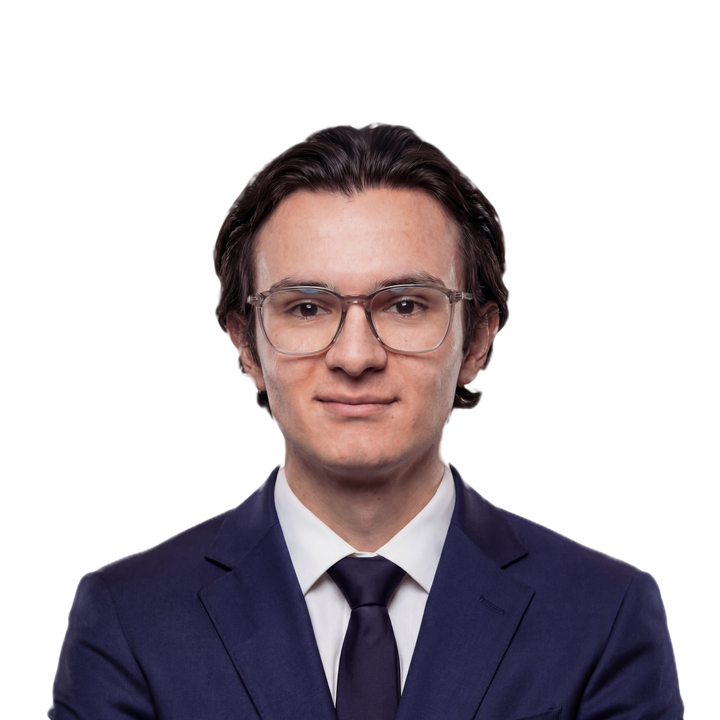
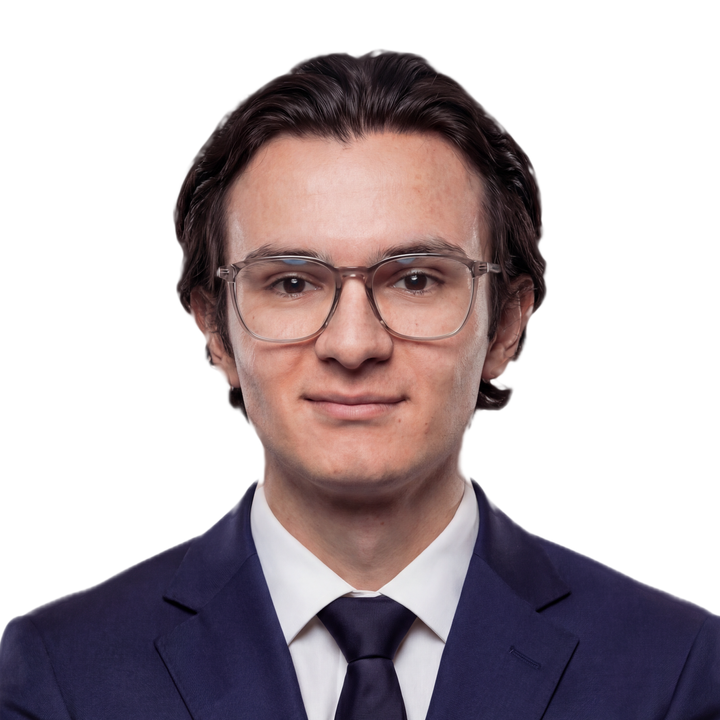
fix: closer head-centered portraits, equal lead circles, single-line bullets, truer red for service ring

diff --git a/index.html b/index.html
@@ -40,7 +40,7 @@
   /* Schimmer: drei Stopps, pro Farbphase überschrieben */
   --s1: var(--purple); --s2: var(--blau); --s3: var(--cyan);
   /* Ringfarben der Teamfolie: bewusst gedämpft */
-  --ring-service: #FF8E86;
+  --ring-service: #F04452;
   --ring-software: #86C8FF;
   --ring-gf: #B9A2F5;
   --font: "Avenir Next LT", "Avenir Next", Avenir, "Nunito Sans", "Segoe UI", sans-serif;
@@ -179,10 +179,10 @@ h1, h2, h3 { margin: 0; font-family: var(--font); }
 .preise p { margin: 0; font-size: 27px; font-weight: 600; color: var(--weiss); }
 
 /* ---------- Folie 9: Team. Ruhig halten, die Ringe tragen die Farbe ---------- */
-.slide.team { flex-direction: row !important; padding: 118px 80px 70px; gap: 0; }
+.slide.team { flex-direction: row !important; padding: 108px 80px 56px; gap: 0; }
 .seite { flex: 1; min-width: 0; display: flex; flex-direction: column; align-items: center; }
-.mitte { width: 400px; flex-shrink: 0; display: flex; flex-direction: column; align-items: center; justify-content: space-between; padding: 0 20px; }
-.seiten-titel { margin: 0 0 26px; font-size: 25px; font-weight: 600; color: var(--w-70); text-align: center; }
+.mitte { padding-top: 56px !important; width: 400px; flex-shrink: 0; display: flex; flex-direction: column; align-items: center; justify-content: space-between; padding: 0 20px; }
+.seiten-titel { margin: 0 0 26px; height: 30px; line-height: 30px; font-size: 25px; font-weight: 600; color: var(--w-70); text-align: center; }
 .person { margin: 0; display: flex; flex-direction: column; align-items: center; text-align: center; }
 .rund {
   --ring: var(--w-25); position: relative; width: 150px; height: 150px; border-radius: 50%;
@@ -197,12 +197,12 @@ h1, h2, h3 { margin: 0; font-family: var(--font); }
 }
 .rund img, .rund .leer { position: absolute; inset: 0; width: 100%; height: 100%; border-radius: 50%; margin: 0; }
 .rund img { object-fit: cover; object-position: center bottom; display: block; }
-.person.gross .rund { width: 182px; height: 182px; border-width: 5px; }
+.person.gross .rund { width: 214px; height: 214px; border-width: 5px; }
 .person.gf .rund { width: 214px; height: 214px; border-width: 5px; }
 .person figcaption { margin-top: 12px; display: flex; flex-direction: column; gap: 2px; }
 .person figcaption b { font-size: 25px; font-weight: 700; color: var(--weiss); }
 .person figcaption span { font-size: 18px; line-height: 1.25; color: var(--w-45); max-width: 176px; min-height: 45px; }
-.person.gross figcaption b { font-size: 30px; }
+.person.gross figcaption b { font-size: 34px; }
 .person.gross figcaption span, .person.gf figcaption span { font-size: 21px; max-width: none; min-height: 0; color: var(--w-70); }
 .person.gf figcaption b { font-size: 34px; }
 .service .rund { --ring: var(--ring-service); }
@@ -214,9 +214,9 @@ h1, h2, h3 { margin: 0; font-family: var(--font); }
 .fremd .rund img { filter: saturate(.55) brightness(.92); }
 .person.fehlt .rund { border-style: dashed; }
 .person.fehlt .leer { display: grid; place-items: center; font-size: 46px; font-weight: 700; color: var(--w-25); }
-.reihe { display: flex; justify-content: center; gap: 26px; margin-top: 20px; }
-.punkte { list-style: none; margin: 22px 0 0; padding: 0; width: 100%; max-width: 640px; }
-.punkte li { position: relative; padding: 6px 0 6px 28px; font-size: 22.5px; line-height: 1.3; color: var(--w-70); border-top: 1px solid var(--hairline); margin: 0; }
+.reihe { display: flex; justify-content: center; gap: 26px; margin-top: 16px; }
+.punkte { list-style: none; margin: 16px 0 0; padding: 0; width: 100%; max-width: 640px; }
+.punkte li { position: relative; padding: 6px 0 6px 28px; font-size: 22.5px; line-height: 1.3; white-space: nowrap; color: var(--w-70); border-top: 1px solid var(--hairline); margin: 0; }
 .punkte li:last-child { border-bottom: 1px solid var(--hairline); }
 .punkte li::before { content: ""; position: absolute; left: 4px; top: 16px; width: 9px; height: 9px; border-radius: 50%; }
 .service .punkte li::before { background: var(--ring-service); }
@@ -380,7 +380,7 @@ body.chrome-aus .chrome-edge, body.chrome-aus .chrome-num { opacity: 0; }
   <div class="rund"><img src="assets/team/jorge.png" alt="Jorge" width="720" height="720"></div>
   <figcaption><b>Jorge</b><span>Data Scientist</span></figcaption>
 </figure></div>
-  <ul class="punkte"><li>Fachkräftesicherung (+2000 Bewerbungen allein in 2025)</li><li>Kundengewinnung (wöchentliche Neukundengespräche)</li><li>Digitale Sichtbarkeit (Tausende Follower für Kunden aufgebaut)</li><li>Zielgruppenanalysen mit Millionen von Datenpunkten</li><li>Schulungen, Workshops und Webinare für Ihr Team</li><li>Websites, Werbekampagnen, Content und vieles mehr</li></ul>
+  <ul class="punkte"><li>Fachkräftesicherung (+2000 Bewerbungen allein in 2025)</li><li>Kundengewinnung (wöchentliche Neukundengespräche)</li><li>Digitale Sichtbarkeit (Tausende Follower aufgebaut)</li><li>Zielgruppenanalysen mit Millionen von Datenpunkten</li><li>Schulungen, Workshops und Webinare für Ihr Team</li><li>Websites, Werbekampagnen, Content und vieles mehr</li></ul>
 </div>
     <div class="mitte">
       <figure class="person gf gross">
@@ -411,7 +411,7 @@ body.chrome-aus .chrome-edge, body.chrome-aus .chrome-num { opacity: 0; }
   <div class="rund"><img src="assets/team/nadira.png" alt="Nadira" width="720" height="720"></div>
   <figcaption><b>Nadira</b><span>AI und Software Engineer</span></figcaption>
 </figure></div>
-  <ul class="punkte"><li>KI aus Deutschland, für Deutschland</li><li>Datenschutzkonforme KI</li><li>Telefon-KI: rund um die Uhr erreichbar für Kunden und Mitarbeiter</li><li>Website Chatbots für Ihre Kunden</li><li>Schnittstellen zu all Ihren Tools</li><li>KI-Workflows in Ihrer Firma implementieren</li></ul>
+  <ul class="punkte"><li>KI aus Deutschland, für Deutschland</li><li>Datenschutzkonforme KI</li><li>Telefon-KI: rund um die Uhr erreichbar für Ihre Kunden</li><li>Website Chatbots für Ihre Kunden</li><li>Schnittstellen zu all Ihren Tools</li><li>KI-Workflows in Ihrer Firma implementieren</li></ul>
 </div>
     <aside class="notes">Links Service mit Eddie, rechts Software mit Dom, in der Mitte Emre. Der Gag in der Mitte kommt zuletzt.</aside>
   </div>

diff --git a/stamm.html b/stamm.html
@@ -40,7 +40,7 @@
   /* Schimmer: drei Stopps, pro Farbphase überschrieben */
   --s1: var(--purple); --s2: var(--blau); --s3: var(--cyan);
   /* Ringfarben der Teamfolie: bewusst gedämpft */
-  --ring-service: #FF8E86;
+  --ring-service: #F04452;
   --ring-software: #86C8FF;
   --ring-gf: #B9A2F5;
   --font: "Avenir Next LT", "Avenir Next", Avenir, "Nunito Sans", "Segoe UI", sans-serif;
@@ -179,10 +179,10 @@ h1, h2, h3 { margin: 0; font-family: var(--font); }
 .preise p { margin: 0; font-size: 27px; font-weight: 600; color: var(--weiss); }
 
 /* ---------- Folie 9: Team. Ruhig halten, die Ringe tragen die Farbe ---------- */
-.slide.team { flex-direction: row !important; padding: 118px 80px 70px; gap: 0; }
+.slide.team { flex-direction: row !important; padding: 108px 80px 56px; gap: 0; }
 .seite { flex: 1; min-width: 0; display: flex; flex-direction: column; align-items: center; }
-.mitte { width: 400px; flex-shrink: 0; display: flex; flex-direction: column; align-items: center; justify-content: space-between; padding: 0 20px; }
-.seiten-titel { margin: 0 0 26px; font-size: 25px; font-weight: 600; color: var(--w-70); text-align: center; }
+.mitte { padding-top: 56px !important; width: 400px; flex-shrink: 0; display: flex; flex-direction: column; align-items: center; justify-content: space-between; padding: 0 20px; }
+.seiten-titel { margin: 0 0 26px; height: 30px; line-height: 30px; font-size: 25px; font-weight: 600; color: var(--w-70); text-align: center; }
 .person { margin: 0; display: flex; flex-direction: column; align-items: center; text-align: center; }
 .rund {
   --ring: var(--w-25); position: relative; width: 150px; height: 150px; border-radius: 50%;
@@ -197,12 +197,12 @@ h1, h2, h3 { margin: 0; font-family: var(--font); }
 }
 .rund img, .rund .leer { position: absolute; inset: 0; width: 100%; height: 100%; border-radius: 50%; margin: 0; }
 .rund img { object-fit: cover; object-position: center bottom; display: block; }
-.person.gross .rund { width: 182px; height: 182px; border-width: 5px; }
+.person.gross .rund { width: 214px; height: 214px; border-width: 5px; }
 .person.gf .rund { width: 214px; height: 214px; border-width: 5px; }
 .person figcaption { margin-top: 12px; display: flex; flex-direction: column; gap: 2px; }
 .person figcaption b { font-size: 25px; font-weight: 700; color: var(--weiss); }
 .person figcaption span { font-size: 18px; line-height: 1.25; color: var(--w-45); max-width: 176px; min-height: 45px; }
-.person.gross figcaption b { font-size: 30px; }
+.person.gross figcaption b { font-size: 34px; }
 .person.gross figcaption span, .person.gf figcaption span { font-size: 21px; max-width: none; min-height: 0; color: var(--w-70); }
 .person.gf figcaption b { font-size: 34px; }
 .service .rund { --ring: var(--ring-service); }
@@ -214,9 +214,9 @@ h1, h2, h3 { margin: 0; font-family: var(--font); }
 .fremd .rund img { filter: saturate(.55) brightness(.92); }
 .person.fehlt .rund { border-style: dashed; }
 .person.fehlt .leer { display: grid; place-items: center; font-size: 46px; font-weight: 700; color: var(--w-25); }
-.reihe { display: flex; justify-content: center; gap: 26px; margin-top: 20px; }
-.punkte { list-style: none; margin: 22px 0 0; padding: 0; width: 100%; max-width: 640px; }
-.punkte li { position: relative; padding: 6px 0 6px 28px; font-size: 22.5px; line-height: 1.3; color: var(--w-70); border-top: 1px solid var(--hairline); margin: 0; }
+.reihe { display: flex; justify-content: center; gap: 26px; margin-top: 16px; }
+.punkte { list-style: none; margin: 16px 0 0; padding: 0; width: 100%; max-width: 640px; }
+.punkte li { position: relative; padding: 6px 0 6px 28px; font-size: 22.5px; line-height: 1.3; white-space: nowrap; color: var(--w-70); border-top: 1px solid var(--hairline); margin: 0; }
 .punkte li:last-child { border-bottom: 1px solid var(--hairline); }
 .punkte li::before { content: ""; position: absolute; left: 4px; top: 16px; width: 9px; height: 9px; border-radius: 50%; }
 .service .punkte li::before { background: var(--ring-service); }

diff --git a/bau.py b/bau.py
@@ -51,9 +51,9 @@ SOFTWARE_KOPF = ("Dom", "Head of AI-Software", "dom.png")
 SOFTWARE = [("Mats", "Frontend Entwickler", "mats.png"), ("Saroj", "Backend Entwickler", "saroj.png"), ("Nadira", "AI und Software Engineer", "nadira.png")]
 
 SERVICE_PUNKTE = ["Fachkräftesicherung (+2000 Bewerbungen allein in 2025)", "Kundengewinnung (wöchentliche Neukundengespräche)",
-                  "Digitale Sichtbarkeit (Tausende Follower für Kunden aufgebaut)", "Zielgruppenanalysen mit Millionen von Datenpunkten",
+                  "Digitale Sichtbarkeit (Tausende Follower aufgebaut)", "Zielgruppenanalysen mit Millionen von Datenpunkten",
                   "Schulungen, Workshops und Webinare für Ihr Team", "Websites, Werbekampagnen, Content und vieles mehr"]
-SOFTWARE_PUNKTE = ["KI aus Deutschland, für Deutschland", "Datenschutzkonforme KI", "Telefon-KI: rund um die Uhr erreichbar für Kunden und Mitarbeiter",
+SOFTWARE_PUNKTE = ["KI aus Deutschland, für Deutschland", "Datenschutzkonforme KI", "Telefon-KI: rund um die Uhr erreichbar für Ihre Kunden",
                    "Website Chatbots für Ihre Kunden", "Schnittstellen zu all Ihren Tools", "KI-Workflows in Ihrer Firma implementieren"]
 
 KONTAKT_MAIL = "emre@edge-digital.com"
